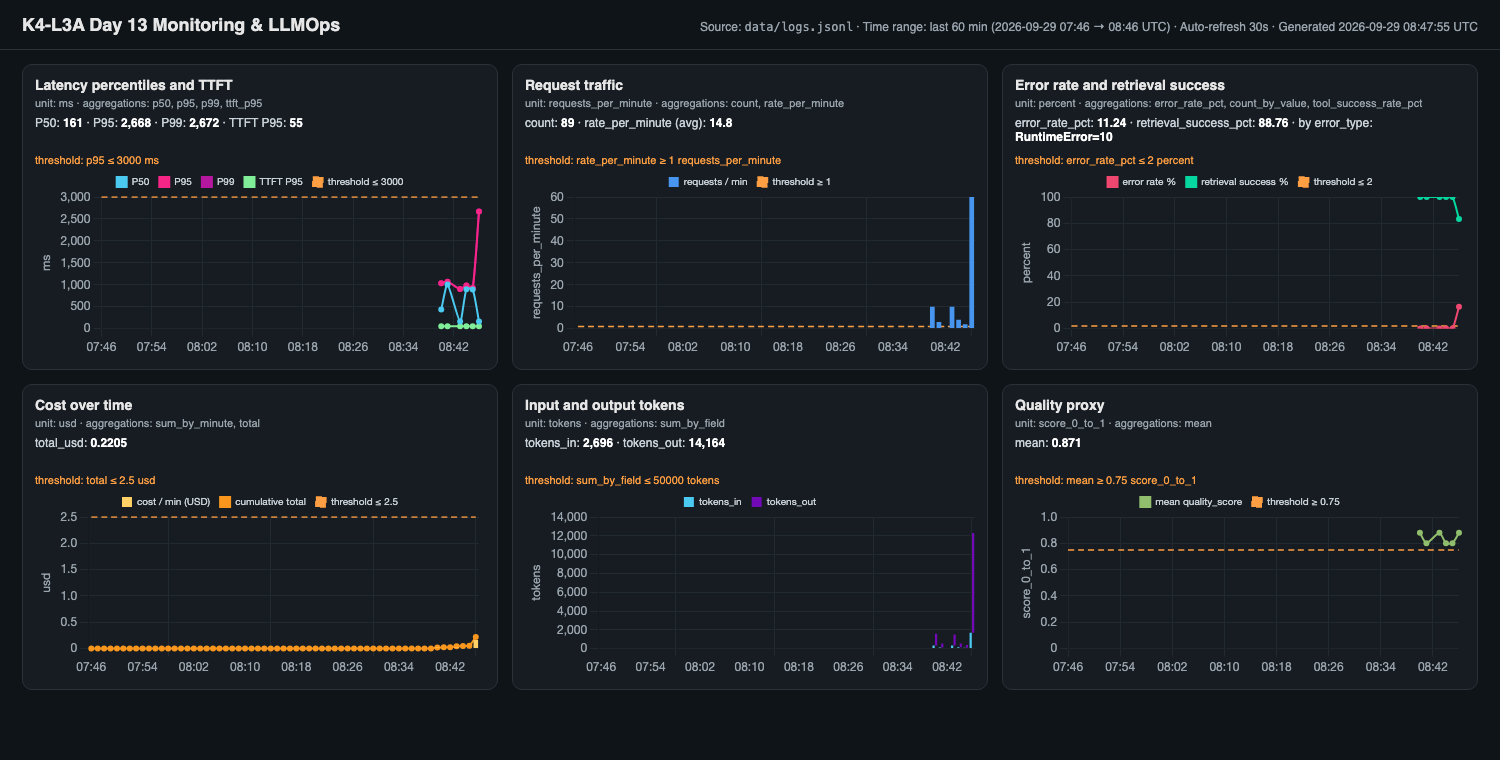
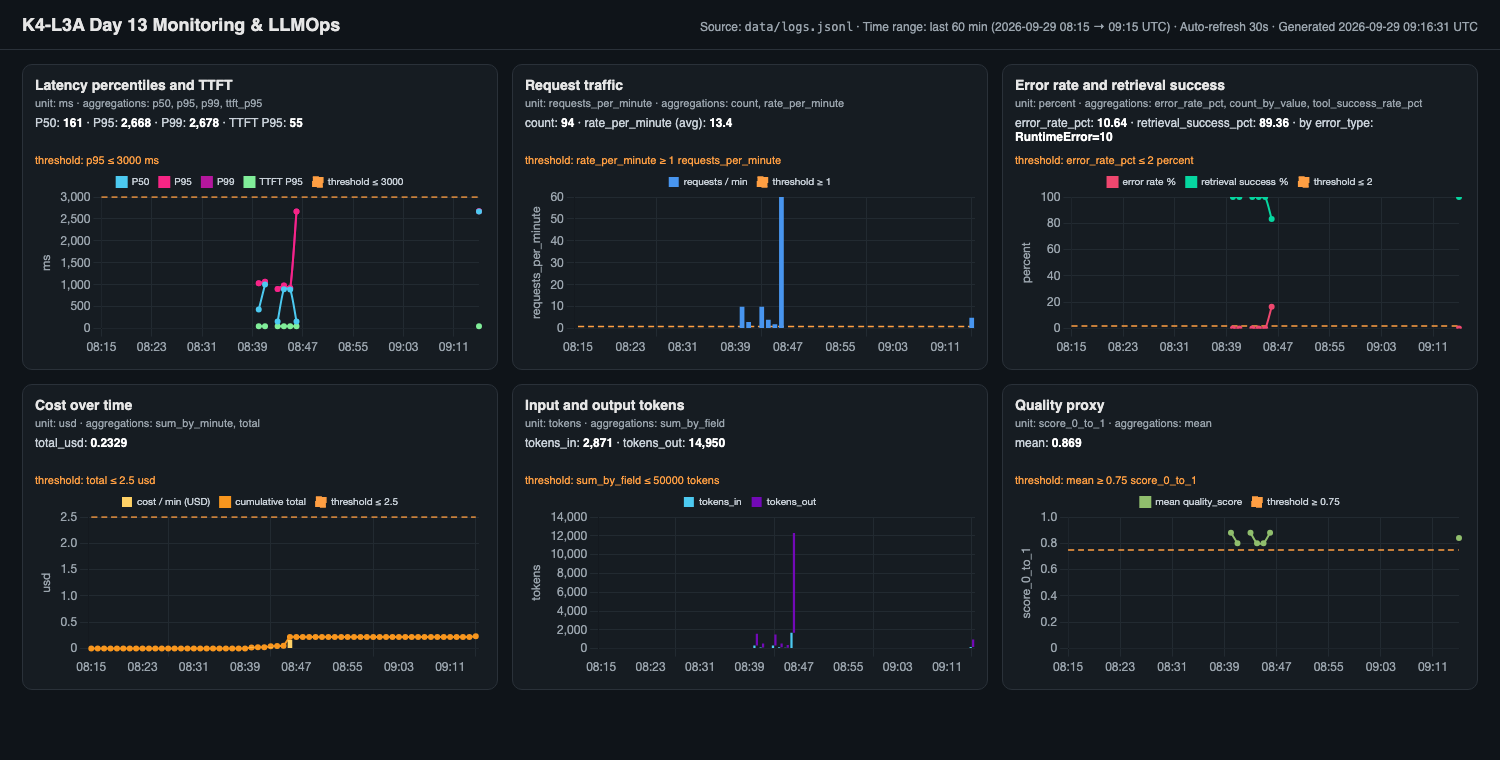
CP3: investigate rag_slow challenge; run agent in threadpool, trace prompt-fetch span, fix PII false positive on hex IDs

diff --git a/scripts/build_dashboard.py b/scripts/build_dashboard.py
@@ -35,7 +35,7 @@ def percentile(values: list[float], p: float) -> float | None:
     return float(items[idx])
 
 
-def load_events(path: Path, minutes: int) -> tuple[list[dict], datetime, datetime]:
+def load_events(path: Path, minutes: int, feature: str | None = None) -> tuple[list[dict], datetime, datetime]:
     events = []
     for line in path.read_text(encoding="utf-8").splitlines():
         if not line.strip():
@@ -43,6 +43,8 @@ def load_events(path: Path, minutes: int) -> tuple[list[dict], datetime, datetim
         try:
             event = json.loads(line)
         except json.JSONDecodeError:
+            continue
+        if feature and event.get("feature") != feature:
             continue
         if "ts" in event:
             event["_ts"] = _parse_ts(event["ts"])
@@ -160,7 +162,7 @@ PAGE = """<!doctype html>
 <script>
 const D = {data};
 const TH = {thresholds};
-const opts = (unit, extra={{}}) => ({{responsive:true, animation:false, spanGaps:true,
+const opts = (unit, extra={{}}) => ({{responsive:true, animation:false, spanGaps:false,
   plugins:{{legend:{{labels:{{color:'#c9d1d9',boxWidth:10,font:{{size:10}}}}}}}},
   scales:{{x:{{ticks:{{color:'#9aa4ad',maxTicksLimit:8}},grid:{{color:'#222a31'}}}},
           y:{{title:{{display:true,text:unit,color:'#9aa4ad'}},ticks:{{color:'#9aa4ad'}},grid:{{color:'#222a31'}},...extra}}}}}});
@@ -212,10 +214,13 @@ def main() -> None:
     parser.add_argument("--config", default=str(ROOT / "config/dashboard.yaml"))
     parser.add_argument("--logs", default=str(ROOT / "data/logs.jsonl"))
     parser.add_argument("--out", default=str(ROOT / "data/dashboard.html"))
+    parser.add_argument("--feature", help="Chỉ lấy log của 1 feature (khoanh vùng incident)")
     args = parser.parse_args()
 
     config = yaml.safe_load(Path(args.config).read_text(encoding="utf-8"))
-    events, start, end = load_events(Path(args.logs), config["dashboard"]["time_range_minutes"])
+    events, start, end = load_events(Path(args.logs), config["dashboard"]["time_range_minutes"], args.feature)
+    if args.feature:
+        config["dashboard"]["title"] += f" — filter: feature={args.feature}"
     data = compute(events, start, end)
     Path(args.out).write_text(render(config, data, start, end), encoding="utf-8")
     print(f"Dashboard -> {args.out} ({len(events)} events, {start:%H:%M}–{end:%H:%M} UTC)")

diff --git a/app/agent.py b/app/agent.py
@@ -89,13 +89,25 @@ class LabAgent:
                     output={"doc_count": len(docs)},
                     metadata={"retrieval_success": True},
                 )
-            prompt = resolve_prompt(
+            # Child 1b — lấy prompt từ Langfuse. Trước đây không có span nên ~745ms fetch khi
+            # cache lạnh (CP3) hiện thành "khoảng trống" giữa retrieval và generation.
+            with child_observation(
                 langfuse_client,
-                feature=feature,
-                docs=docs,
-                message=message,
-                enabled=tracing_enabled(),
-            )
+                name="prompt-fetch",
+                as_type="span",
+                metadata={"correlation_id": correlation_id},
+            ) as prompt_obs:
+                prompt = resolve_prompt(
+                    langfuse_client,
+                    feature=feature,
+                    docs=docs,
+                    message=message,
+                    enabled=tracing_enabled(),
+                )
+                prompt_obs.update(
+                    output={"prompt_version": prompt.version, "prompt_source": prompt.source},
+                    level="WARNING" if prompt.fetch_error else None,
+                )
             langfuse_client.update_current_span(
                 metadata={
                     "doc_count": len(docs),

diff --git a/app/pii.py b/app/pii.py
@@ -6,10 +6,12 @@ import re
 # Thứ tự có ý nghĩa: pattern dài/cụ thể chạy trước để không bị pattern ngắn "cắt" mất một phần
 # (vd 16 số thẻ không bị nhận nhầm thành CCCD/điện thoại rồi để lộ phần còn lại).
 PII_PATTERNS: dict[str, str] = {
-    "credit_card": r"(?<!\d)\d{4}[- ]?\d{4}[- ]?\d{4}[- ]?\d{4}(?!\d)",
+    # Biên (?<![0-9A-Za-z]) / (?![0-9A-Za-z]): không bắt chuỗi số nằm GIỮA ID hex
+    # (vd trace_id "8968fc9b<12 số>c176..." từng bị che nhầm thành CCCD).
+    "credit_card": r"(?<![0-9A-Za-z])\d{4}[- ]?\d{4}[- ]?\d{4}[- ]?\d{4}(?![0-9A-Za-z])",
     "email": r"[\w\.+-]+@[\w-]+(?:\.[\w-]+)*\.[A-Za-z]{2,}",
-    "cccd": r"(?<!\d)\d{12}(?!\d)",
-    "phone_vn": r"(?<!\d)(?:\+84|0)(?:[ .-]?\d){9}(?!\d)",
+    "cccd": r"(?<![0-9A-Za-z])\d{12}(?![0-9A-Za-z])",
+    "phone_vn": r"(?<![0-9A-Za-z])(?:\+84|0)(?:[ .-]?\d){9}(?![0-9A-Za-z])",
     # Hộ chiếu Việt Nam: 1 chữ cái in hoa + 7 chữ số (vd B1234567)
     "passport_vn": r"\b[A-Z]\d{7}\b",
 }

diff --git a/app/main.py b/app/main.py
@@ -5,6 +5,7 @@ from contextlib import asynccontextmanager
 
 from fastapi import FastAPI, HTTPException, Request
 from fastapi.responses import JSONResponse
+from starlette.concurrency import run_in_threadpool
 from structlog.contextvars import bind_contextvars
 
 from .agent import LabAgent
@@ -64,7 +65,11 @@ async def chat(request: Request, body: ChatRequest) -> ChatResponse:
         payload={"message_preview": summarize_text(body.message)},
     )
     try:
-        result = agent.run(
+        # agent.run là code đồng bộ (retrieval/LLM blocking). Gọi thẳng trong `async def` sẽ chặn
+        # event loop -> 1 retrieval chậm làm mọi request khác xếp hàng (incident CP3: 5 request
+        # đồng thời bị xử lý nối tiếp, client chờ tới 13.4s). Chạy trong threadpool để song song.
+        result = await run_in_threadpool(
+            agent.run,
             user_id=body.user_id,
             feature=body.feature,
             session_id=body.session_id,

diff --git a/tests/test_correlation_and_scrub.py b/tests/test_correlation_and_scrub.py
@@ -74,3 +74,11 @@ def test_scrub_moi_truong_ke_ca_long_nhau() -> None:
     out = json.dumps(scrub_event(None, "error", event), ensure_ascii=False)
     for raw in ("0901234567", "student@vinuni.edu.vn", "4111 1111 1111 1111"):
         assert raw not in out
+
+
+def test_scrub_bo_qua_id_he_thong() -> None:
+    trace_id = "8968fc9b123456789012c176ae223299"
+    out = scrub_event(None, "info", {"event": "response_sent", "trace_id": trace_id,
+                                     "payload": {"note": "CCCD 079204001234"}})
+    assert out["trace_id"] == trace_id
+    assert "079204001234" not in json.dumps(out)

diff --git a/app/logging_config.py b/app/logging_config.py
@@ -23,8 +23,9 @@ class JsonlFileProcessor:
 
 
 
-# Trường do hệ thống sinh, không bao giờ chứa dữ liệu người dùng -> bỏ qua cho nhanh.
-_SKIP_SCRUB_KEYS = {"ts", "level"}
+# Trường do hệ thống sinh, không chứa dữ liệu người dùng -> không scrub (tránh che nhầm làm
+# vỡ khả năng nối log<->trace). correlation_id từ client đã được middleware lọc PII trước khi bind.
+_SKIP_SCRUB_KEYS = {"ts", "level", "trace_id", "correlation_id", "user_id_hash"}
 
 
 def _scrub_value(value: Any) -> Any:

diff --git a/tests/test_pii.py b/tests/test_pii.py
@@ -45,3 +45,9 @@ def test_scrub_passport_vn() -> None:
 def test_khong_che_nham_du_lieu_binh_thuong() -> None:
     text = "req-1a2b3c4d latency 1234ms cost 0.000123 order 2026 total 500000"
     assert scrub_text(text) == text
+
+
+def test_khong_che_nham_id_hex() -> None:
+    # Lỗi thật gặp ở CP3: 12 chữ số giữa trace_id hex bị che thành [REDACTED_CCCD]
+    for hex_id in ("8968fc9b123456789012c176ae223299", "req-0901234567ab", "a4111111111111111b"):
+        assert scrub_text(hex_id) == hex_id
